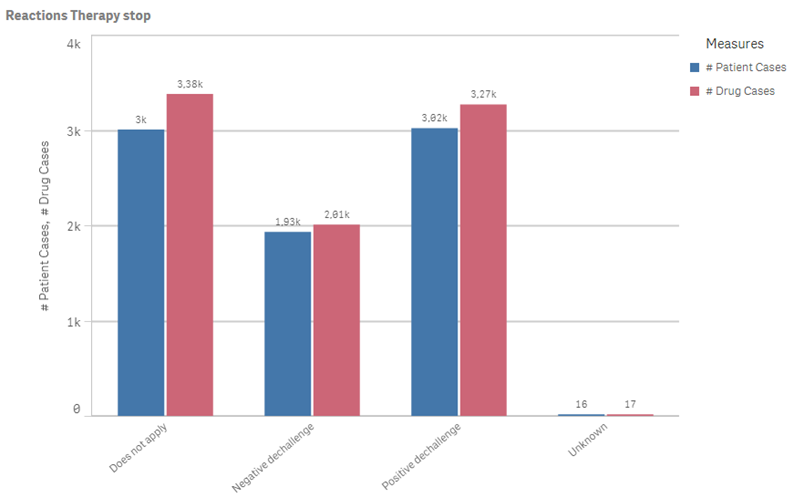
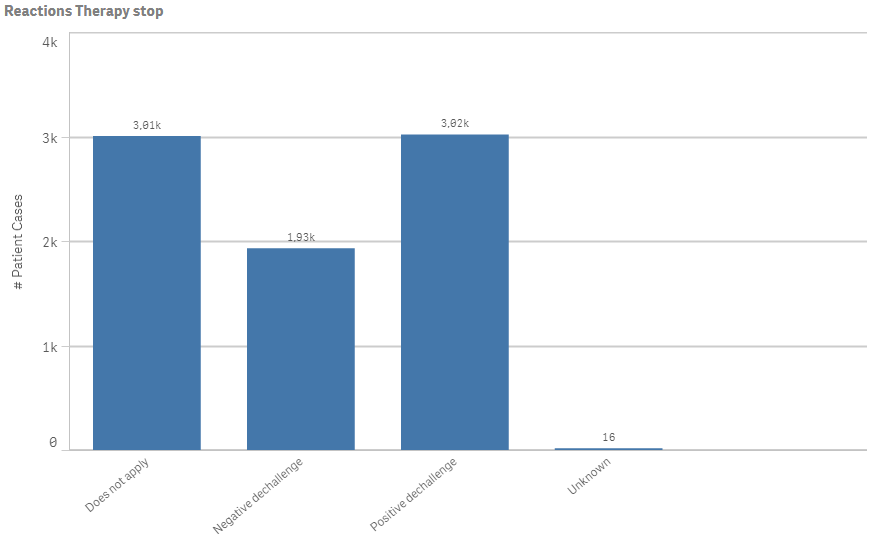
Simplified charts

diff --git a/docs/use-cases/use-case-custom-analytics/ui/README.md b/docs/use-cases/use-case-custom-analytics/ui/README.md
@@ -21,8 +21,7 @@ Medical Description Drug Use: [Medical Description Drug Use]
   
 MEASURES:  
 \# Patient Cases: Count(Demographic_Caseid)  
-\# Unique Drugs: Count(distinct Drugname)  
-\# Drug Cases: Count(Drug_caseID)    
+ 
   
 ![Viz three](./3.png)
 
@@ -55,8 +54,7 @@ DIMENSIONS:
 Reaction Therapy Stop:[Reaction Therapy Stop]  
   
 MEASURES:  
-\# Patient Cases: Count(Demographic_Caseid)  
-\# Drug Cases: Count(Drug_caseID)  
+\# Patient Cases: Count(Demographic_Caseid)   
 
 ## UI Overview
 
